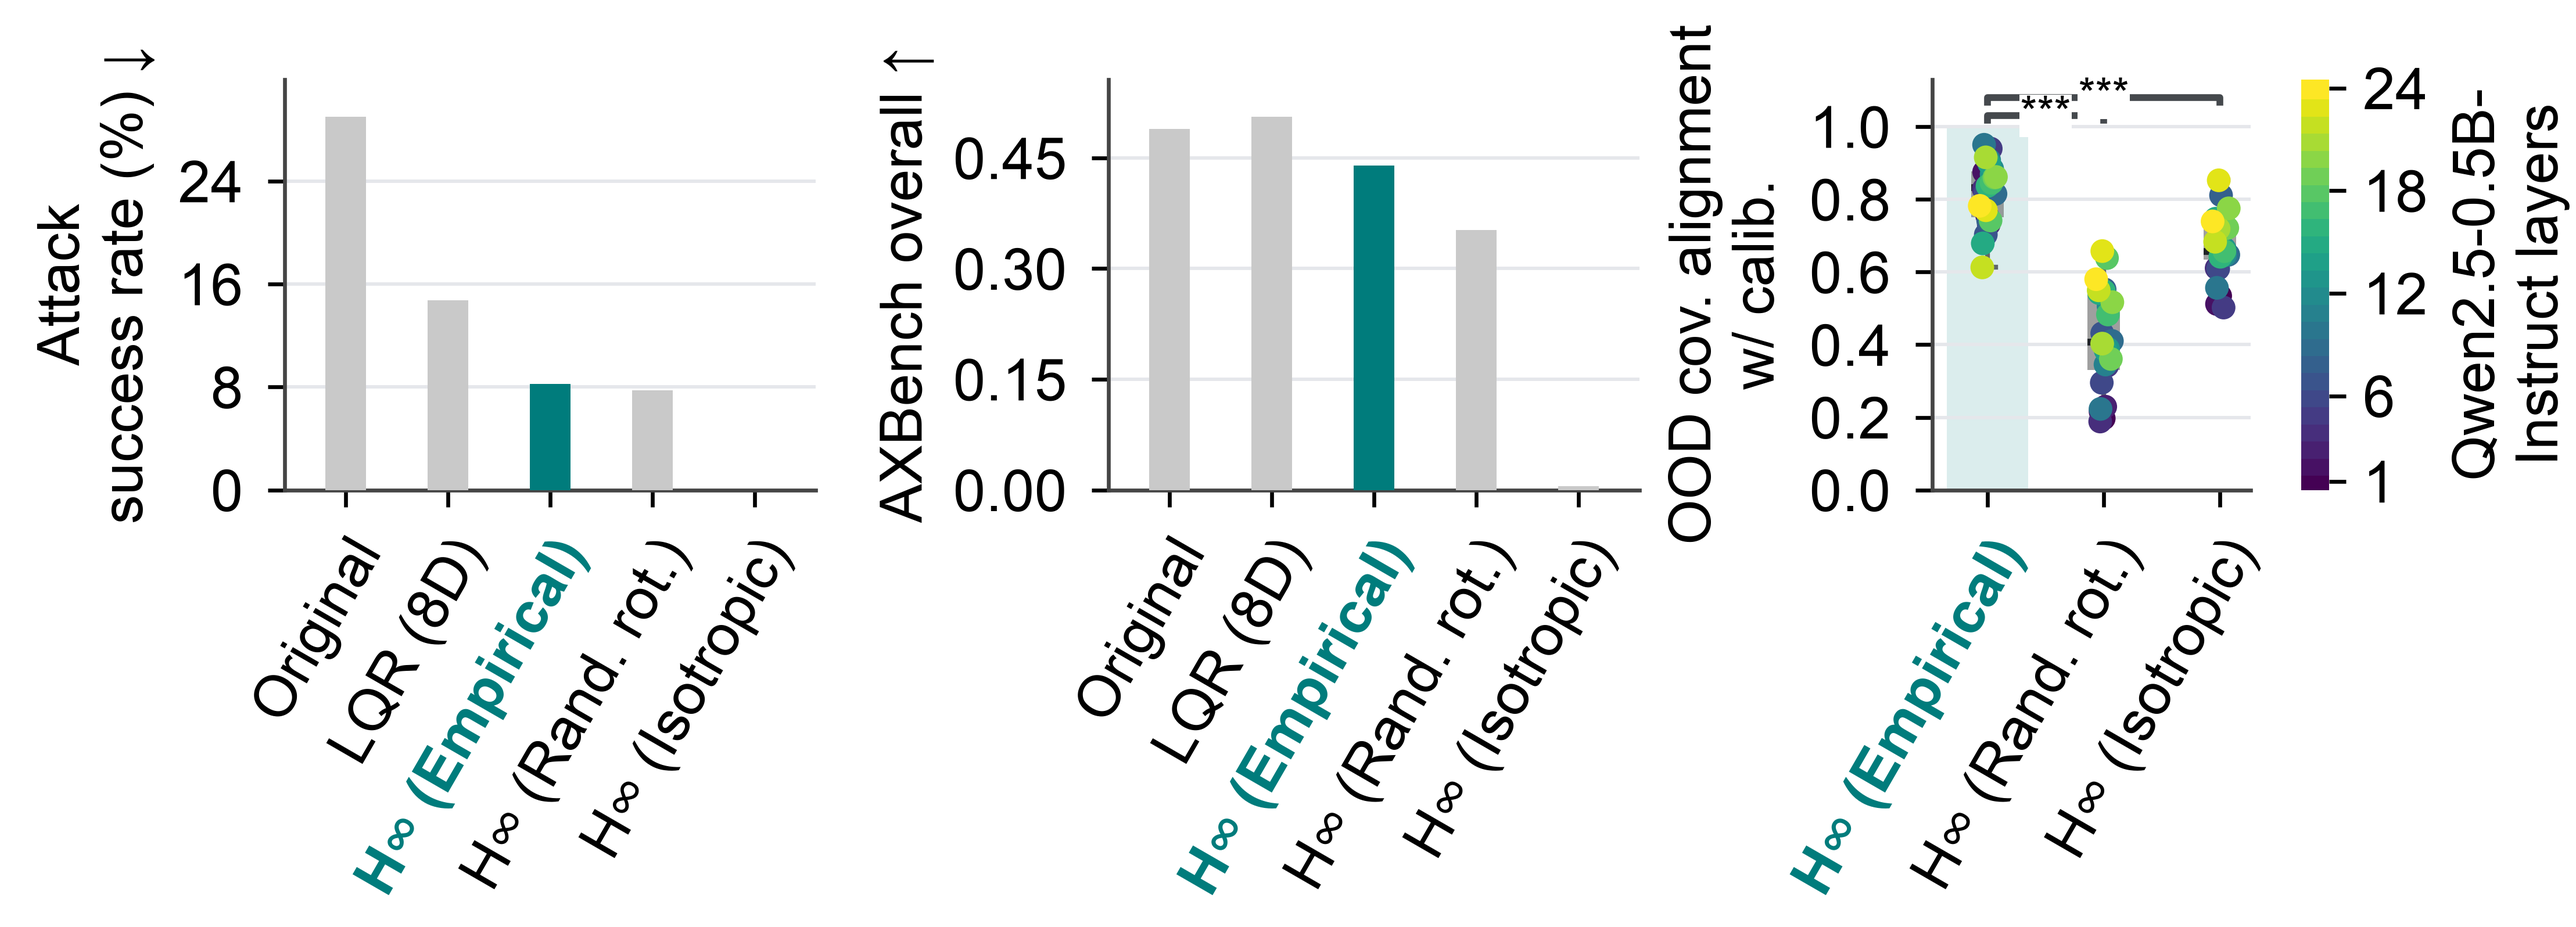
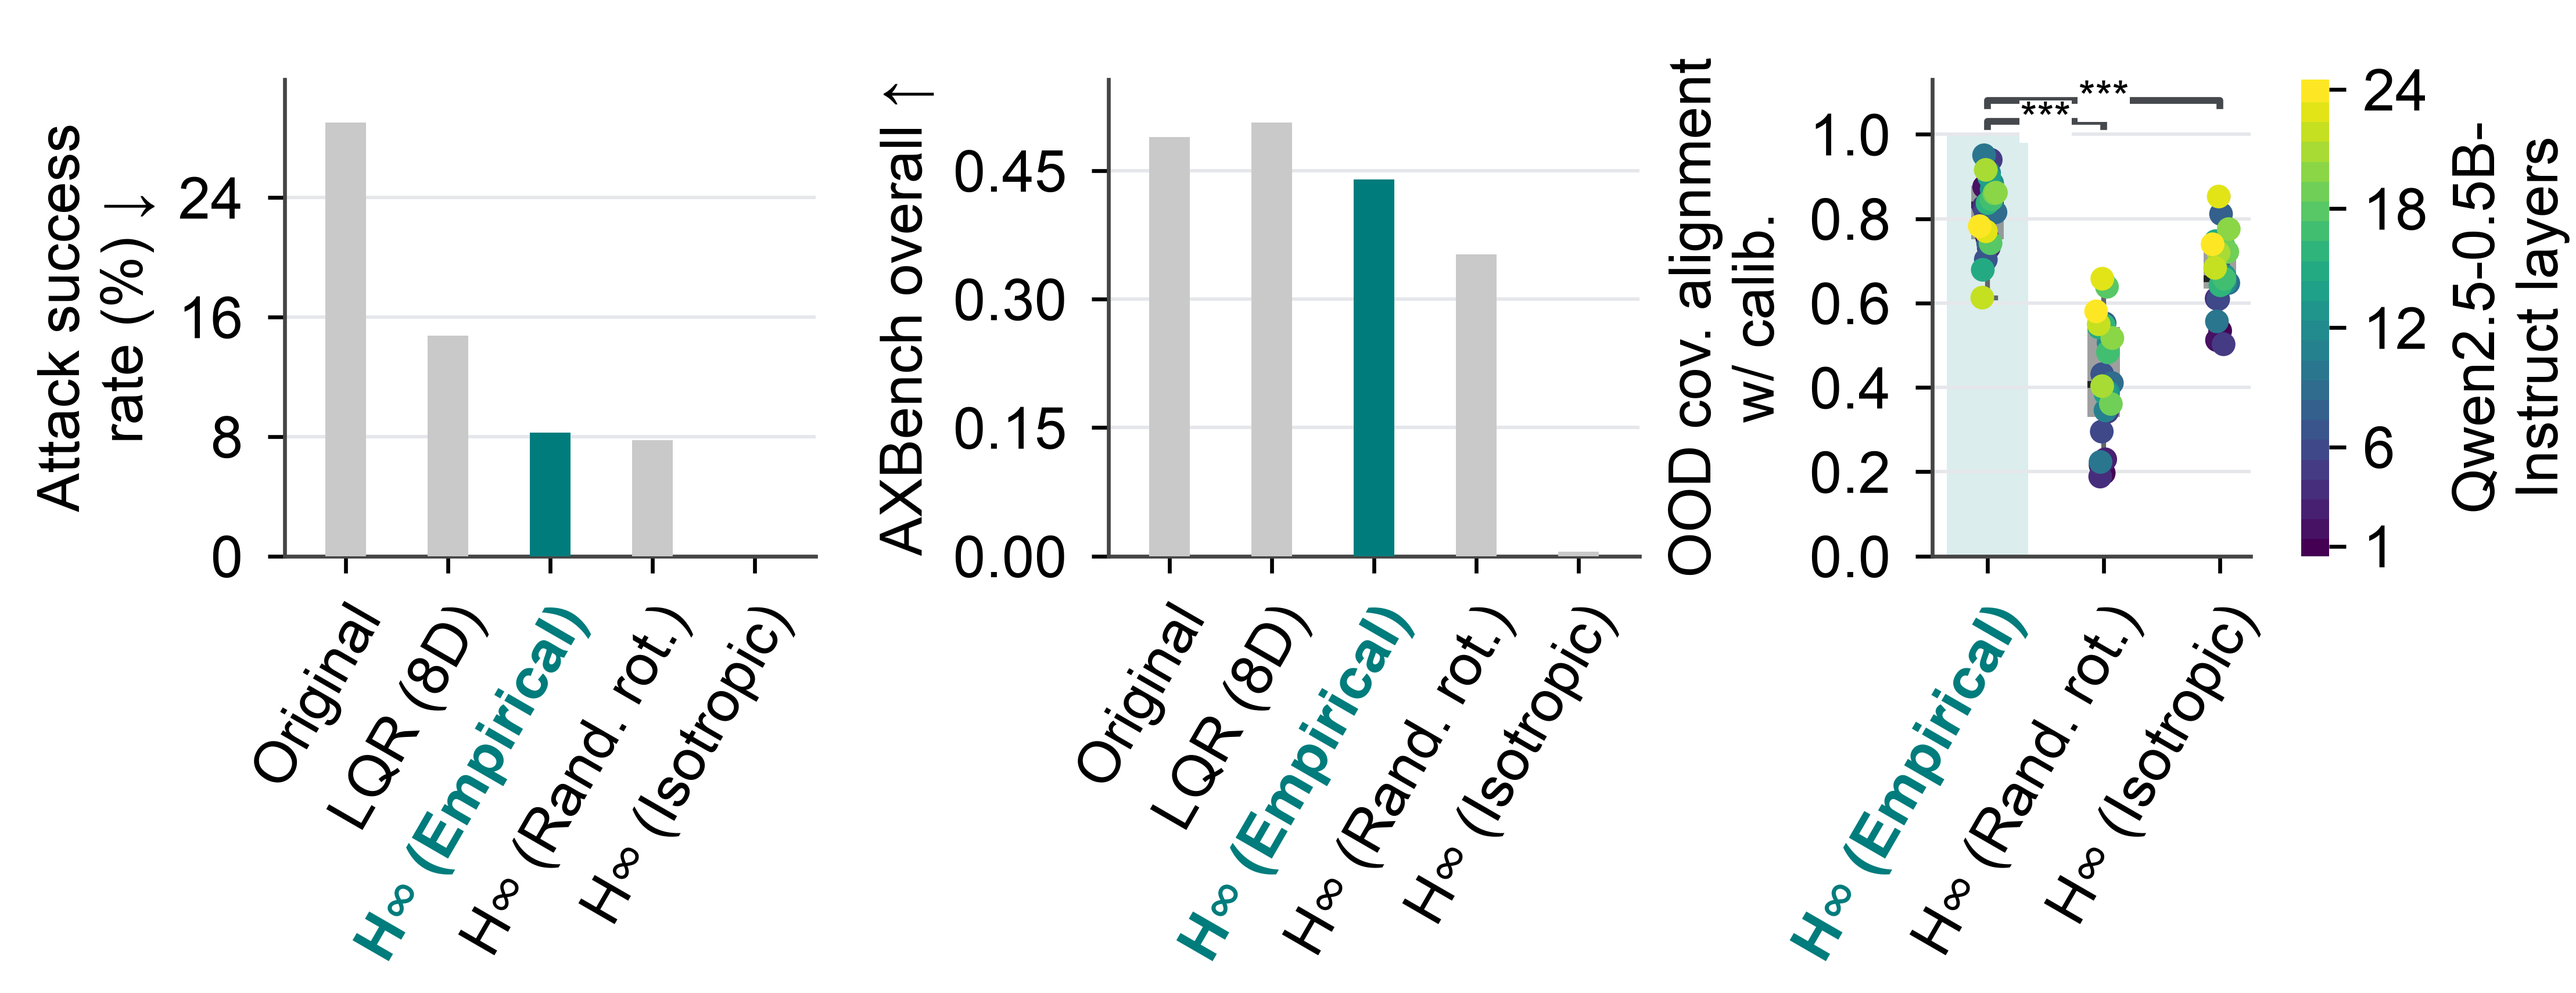
style: adjust paper geometry height and ASR label wrap

diff --git a/parking/rudra_rebuttal_residual_geometry/geometry_final_for_paper.py b/parking/rudra_rebuttal_residual_geometry/geometry_final_for_paper.py
@@ -71,7 +71,7 @@ def report():
                          'axes.spines.top': False, 'axes.spines.right': False,
                          'axes.linewidth': .8, 'axes.edgecolor': '#454545', 'pdf.fonttype': 42}):
         # Preserve horizontal placement and room for the rotated category labels.
-        figure_height = 3.8 * .70
+        figure_height = 3.8 * .75
         bottom = (3.8 * .33) / figure_height
         height = 1 - bottom - (3.8 * .06) / figure_height
         width = 4.8 * (.98 - .17) / (2 + .55)
@@ -87,7 +87,7 @@ def report():
         colorbar_axis = fig.add_axes([(alignment_x + alignment_width + .144) / figure_width,
                                      bottom, .08 / figure_width, height])
         draw_alignment(fig, alignment_axis, colorbar_axis)
-        for ax, (metric, label) in zip(axes, [('asr_pct', 'Attack\nsuccess rate (%) ↓'),
+        for ax, (metric, label) in zip(axes, [('asr_pct', 'Attack success\nrate (%) ↓'),
                                                 ('overall', 'AXBench overall ↑')], strict=True):
             ax.bar(np.arange(len(METHODS)), [r[metric] for r in rows], width=.40,
                    color=[TEAL if m == 'empirical' else GRAY for m in METHODS],
